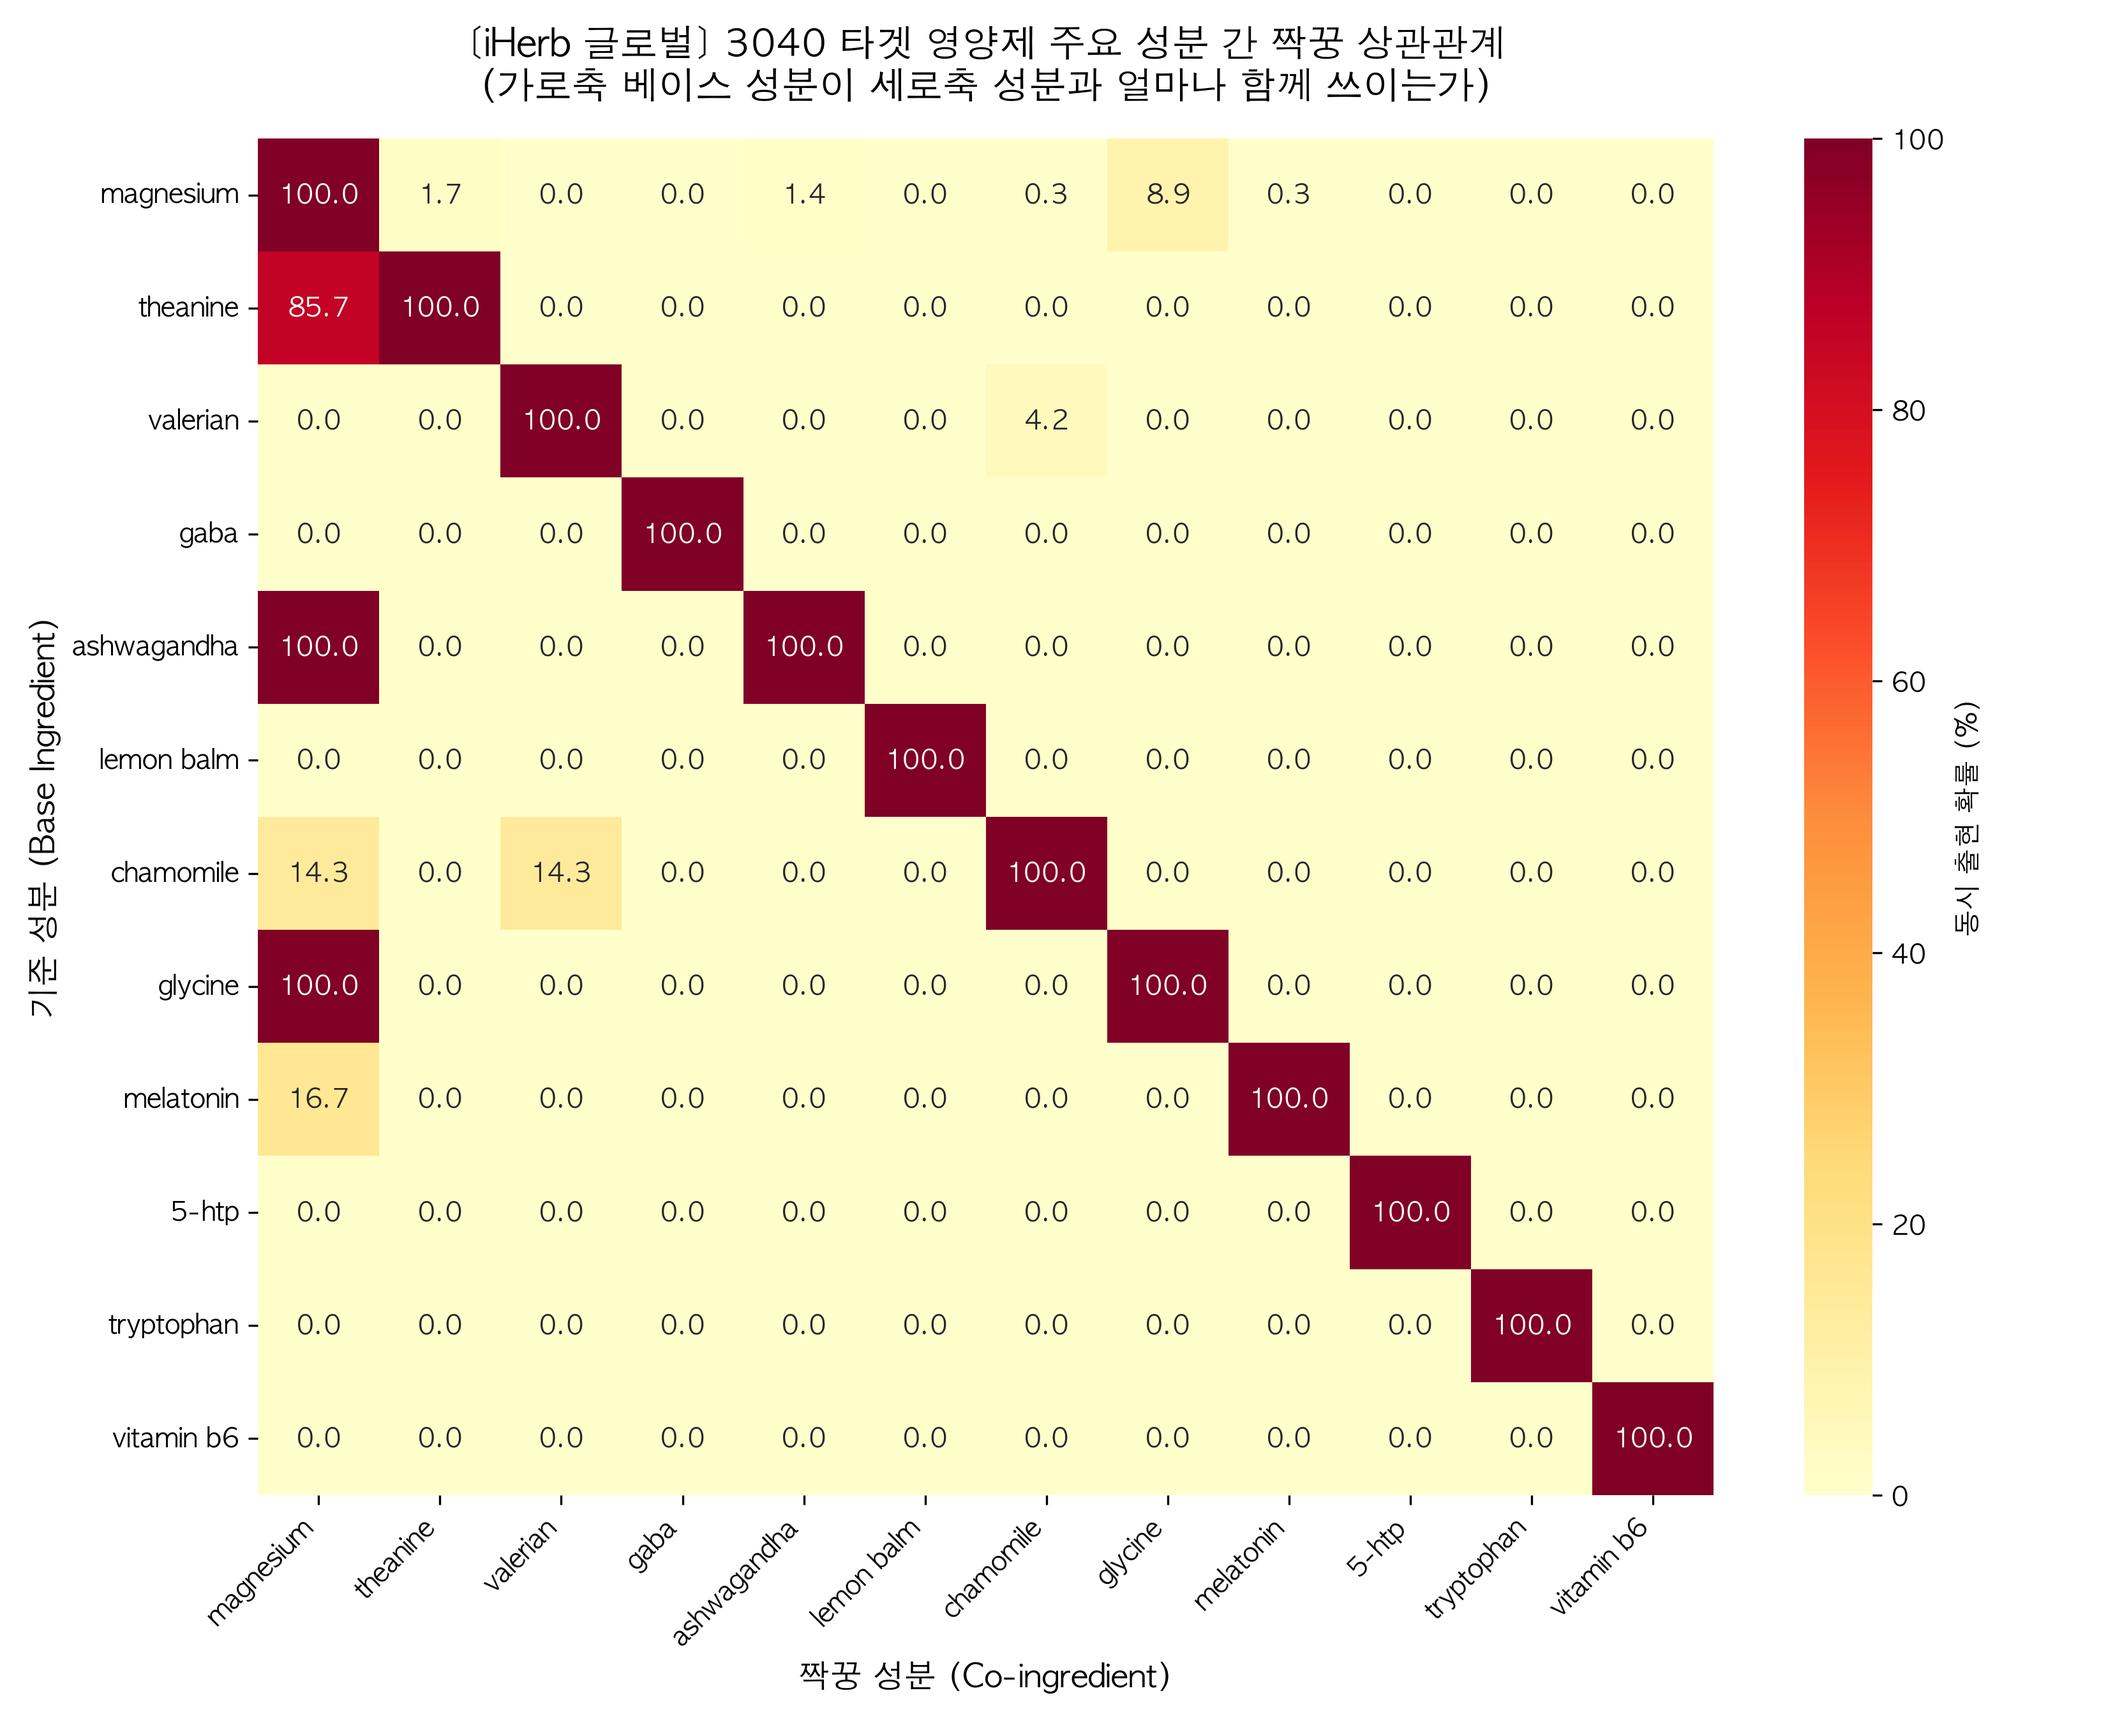
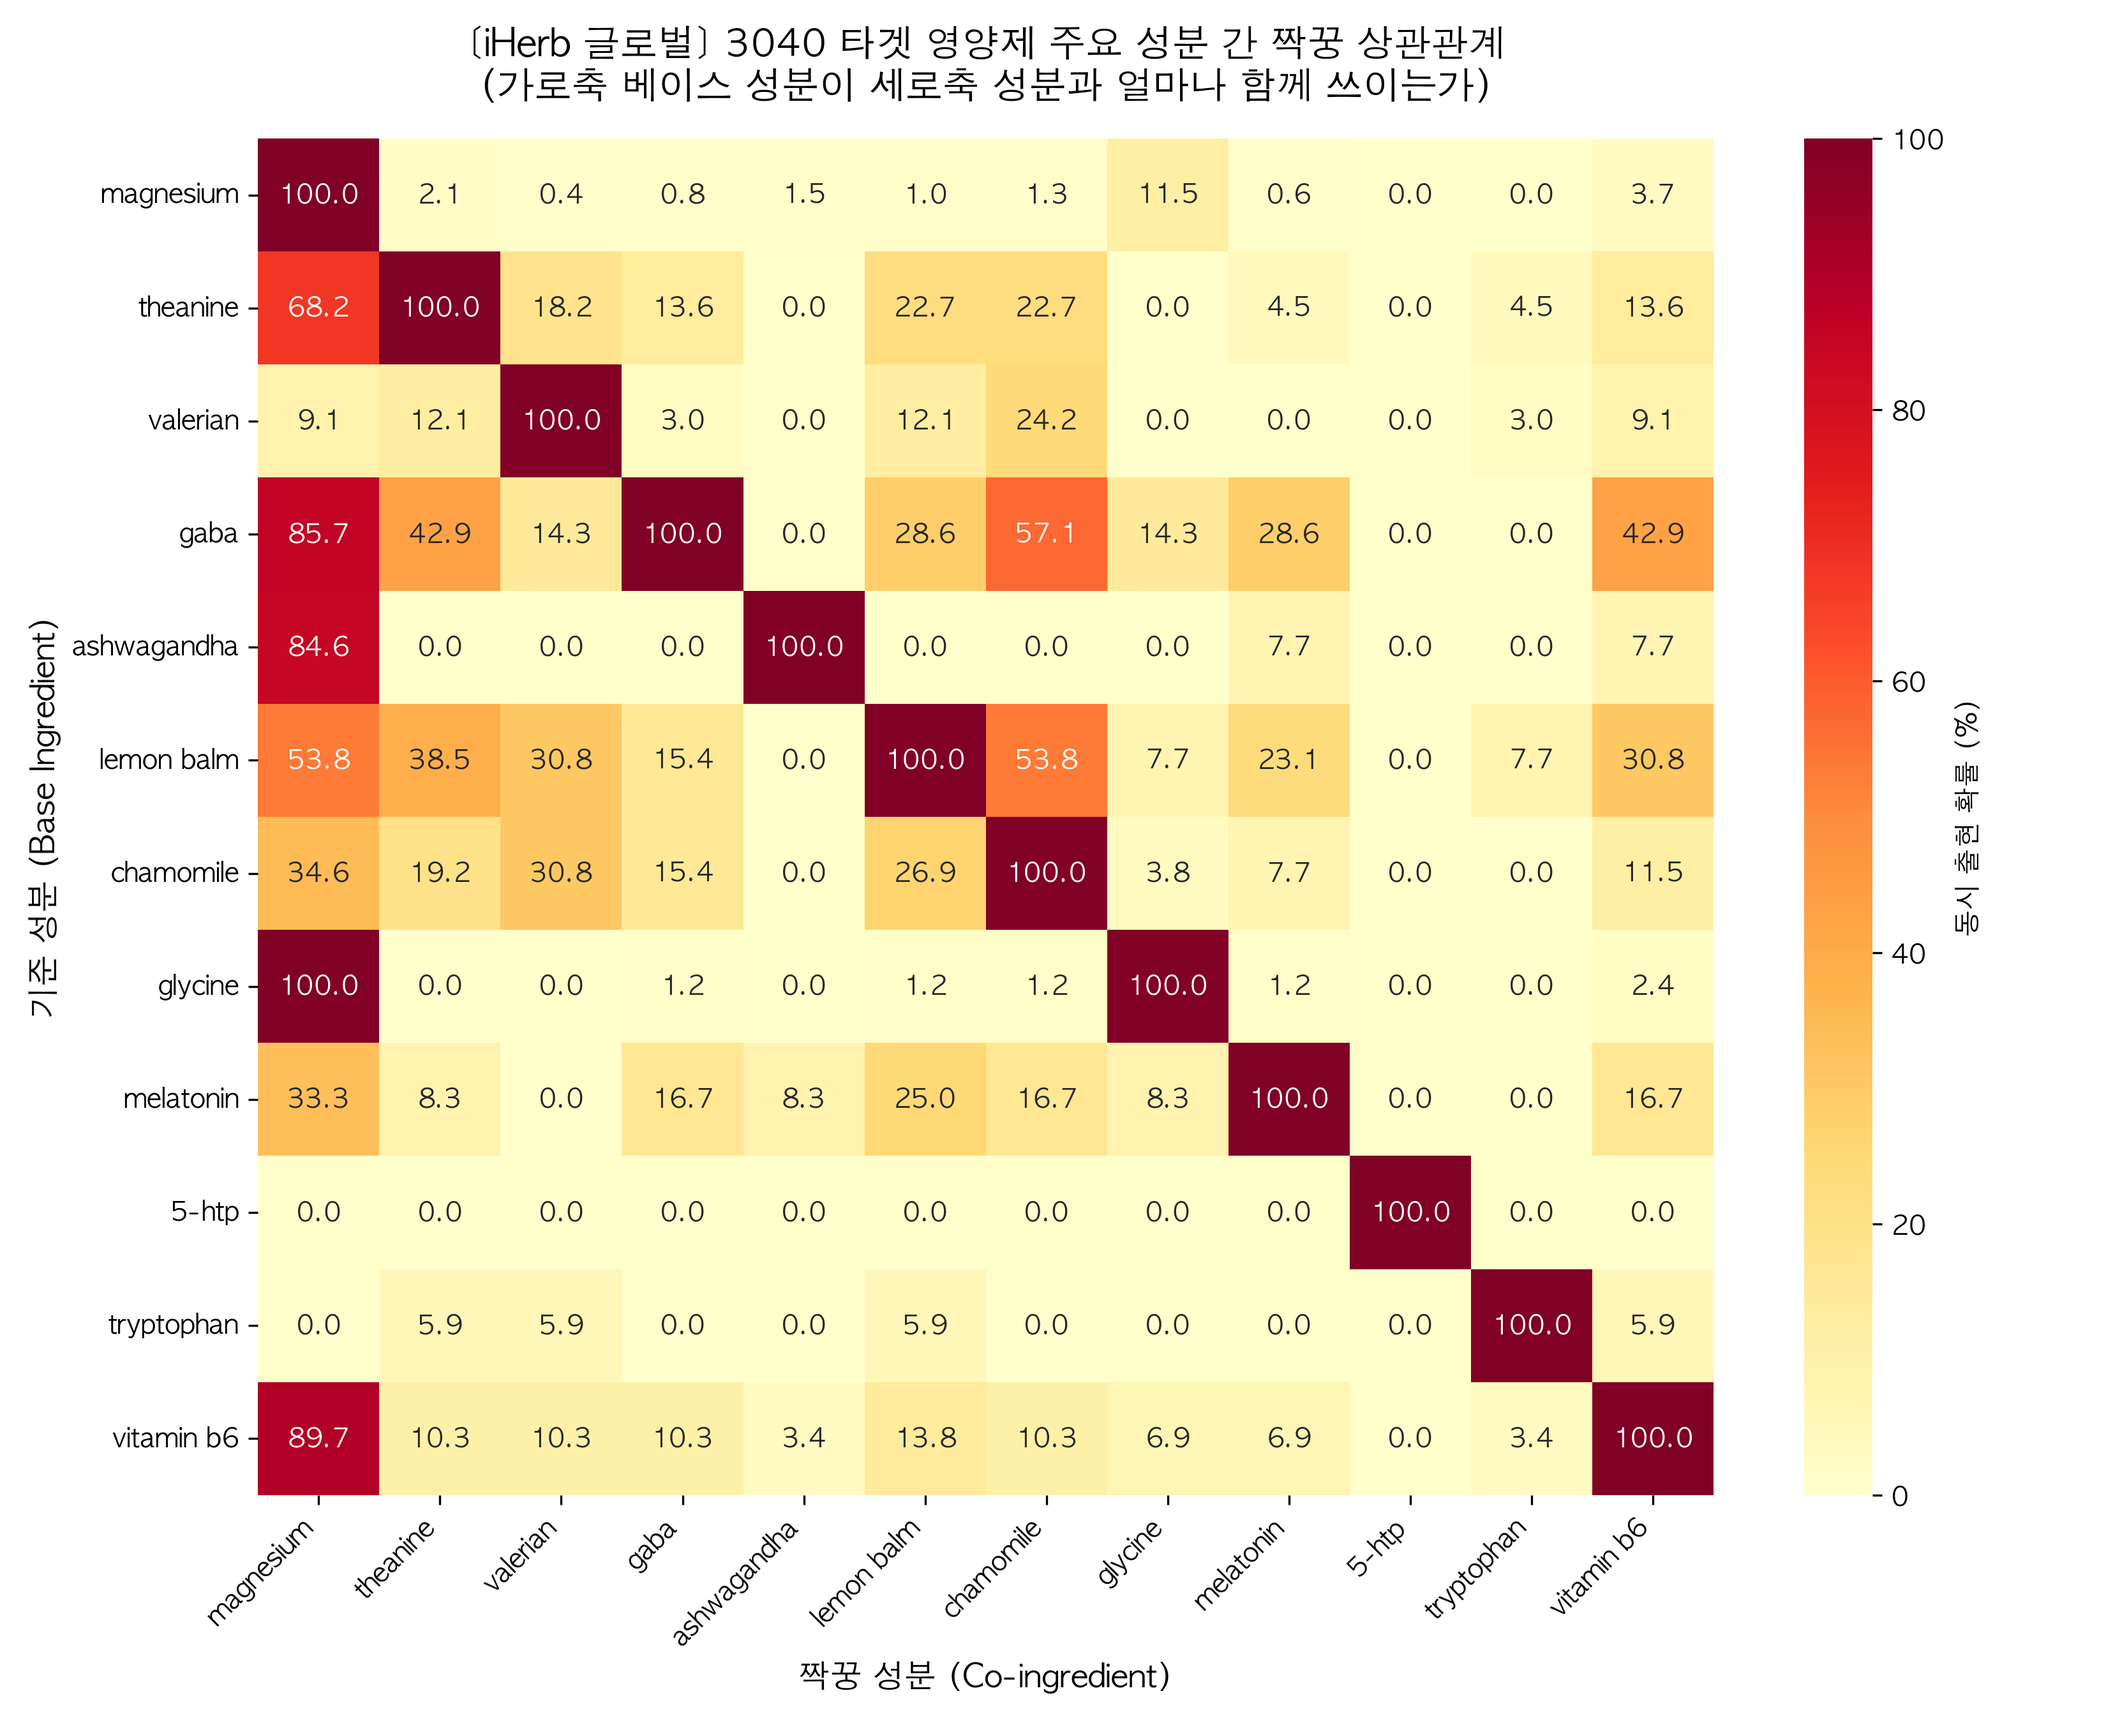
fix: revert README.md and add advanced Naver co-occurrence charts

diff --git a/py/update_readme.py b/py/update_readme.py
@@ -21,7 +21,7 @@ def linkify_output(text):
     linked_text = re.sub(r'data/[a-zA-Z0-9_\-]+\.(png|csv)', replacer, text)
     return linked_text
 
-readme_content = """# 🌙 Sleep Nutrients Project
+readme_header_template = """# 🌙 Sleep Nutrients Project
 
 글로벌(iHerb) 및 국내(Naver) 데이터를 통합 분석하여, 최적의 수면 영양제 복합제 기획과 시장 전략을 수립하는 프로젝트입니다.
 
@@ -34,6 +34,7 @@ readme_content = """# 🌙 Sleep Nutrients Project
 4. [🧮 3040 직장인 타겟 성분 짝꿍 매트릭스](#4--3040-직장인-타겟-성분-짝꿍-매트릭스-pyanalyze_cooccurrence_advancedpy-실행-결과)
 5. [🛡 공공데이터 안전성(부작용) 검증 Plan](#5--공공데이터-안전성부작용-검증-plan-pyvalidate_safetypy-실행-결과)
 6. [📂 리포트 및 소스코드](#--리포트-및-소스코드-collaboration)
+7. [📊 네이버 쇼핑 3040 시장 분석 및 EDA 리포트](#네이버-쇼핑을-활용한-3040세대-수면-영양제-시장-분석-및-eda-리포트)
 
 ---
 
@@ -67,6 +68,7 @@ readme_content = """# 🌙 Sleep Nutrients Project
 {out3}
 ```
 **[차트 결과물]**
+- [통합 상관관계 확률 매트릭스 히트맵](data/chart_cooccurrence_heatmap_combined.png)
 - [iHerb 상관관계 확률 매트릭스 히트맵](data/chart_cooccurrence_heatmap_iherb.png)
 - [Naver 상관관계 확률 매트릭스 히트맵](data/chart_cooccurrence_heatmap_naver.png)
 
@@ -95,6 +97,7 @@ readme_content = """# 🌙 Sleep Nutrients Project
   - [`py/validate_safety.py`](py/validate_safety.py): 공공데이터 및 부작용 맵핑 기반 안전성 검증
   - [`py/visualize_pdp_performance.py`](py/visualize_pdp_performance.py): 성분 분포 시각화 
   - [`py/analyze_reviews_deeper.py`](py/analyze_reviews_deeper.py): 제품군 뱃지 분석
+
 """
 
 if __name__ == "__main__":
@@ -104,6 +107,23 @@ if __name__ == "__main__":
     out3 = linkify_output(run_script("py/analyze_cooccurrence_advanced.py"))
     out4 = linkify_output(run_script("py/validate_safety.py"))
     
+    # 다른 작업자 원본 보존 로직
+    existing_content = ""
+    try:
+        with open("README.md", "r", encoding="utf-8") as f:
+            existing_content = f.read()
+    except:
+        pass
+        
+    keyword = "# 네이버 쇼핑을 활용한 3040세대 수면 영양제 시장 분석 및 EDA 리포트"
+    preserved_bottom = ""
+    if keyword in existing_content:
+        preserved_bottom = keyword + existing_content.split(keyword)[1]
+        
+    final_content = readme_header_template.format(
+        out1=out1, out2=out2, out_cross=out_cross, out3=out3, out4=out4
+    ) + "\n\n" + preserved_bottom
+    
     with open("README.md", "w", encoding="utf-8") as f:
-        f.write(readme_content.format(out1=out1, out2=out2, out_cross=out_cross, out3=out3, out4=out4))
-    print("README.md updated with TOC, separators, and file links!")
+        f.write(final_content)
+    print("README.md updated safely with TOC, preserving other worker's content!")

diff --git a/py/analyze_cooccurrence_advanced.py b/py/analyze_cooccurrence_advanced.py
@@ -26,31 +26,33 @@ TARGET_INGREDIENTS = [
     'melatonin', '5-htp', 'tryptophan', 'vitamin b6'
 ]
 
-def map_ingredient_name(raw_name):
-    """원시 성분명(텍스트)에서 핵심 타겟 성분 키워드 추출 (단순화된 정규화)"""
-    if not isinstance(raw_name, str): return None
-    raw_name = raw_name.lower().strip()
-    
-    for target in TARGET_TARGET_INGREDIENTS: # Typo -> TARGET_INGREDIENTS
-        pass # Will fix in next iteration if needed, fixing here directly
-    
-    for target in TARGET_INGREDIENTS:
-        if target in raw_name:
-            if target == 'magnesium glycinate': return 'magnesium' # 대표성분 분류
-            if target == '5-htp': return '5-htp'
-            if target == 'vitamin b6': return 'vitamin b6'
-            return target
-    return None
+INGREDIENT_MAP_ADV = {
+    'magnesium': ['magnesium', '마그네슘'],
+    'theanine': ['theanine', '테아닌', 'l-theanine'],
+    'valerian': ['valerian', '발레리안'],
+    'gaba': ['gaba', '가바', 'gamma aminobutyric acid'],
+    'ashwagandha': ['ashwagandha', '아슈와간다', '아쉬아간다'],
+    'lemon balm': ['lemon balm', '레몬밤'],
+    'chamomile': ['chamomile', '카모마일', '캐모마일'],
+    'glycine': ['glycine', '글리신'],
+    'melatonin': ['melatonin', '멜라토닌'],
+    '5-htp': ['5-htp', '5-히드록시트립토판'],
+    'tryptophan': ['tryptophan', '트립토판', 'l-tryptophan'],
+    'vitamin b6': ['vitamin b6', '비타민 b6', '비타민b6']
+}
 
 def extract_ingredients(text_series):
-    """텍스트 군에서 성분 리스트 추출"""
+    """텍스트 군에서 성분 리스트 추출 (한/영 통합 매핑)"""
     mapped_list = []
     for text in text_series.dropna():
-        # 간단하게 텍스트 내에서 주요 키워드가 발견되면 해당 제품의 성분으로 간주
+        text_lower = str(text).lower()
         product_ings = set()
-        for target in TARGET_INGREDIENTS:
-            if target in str(text).lower():
-                product_ings.add(target)
+        for target_ing, aliases in INGREDIENT_MAP_ADV.items():
+            for alias in aliases:
+                # 단순 포함 여부 검사
+                if alias in text_lower:
+                    product_ings.add(target_ing)
+                    break
         if product_ings:
             mapped_list.append(list(product_ings))
     return mapped_list
@@ -143,6 +145,9 @@ def run_cooccurrence_matrix_analysis():
         
     print(f"\n✅ iHerb 분석 유효제품: {len(iherb_lists)}건 / Naver 분석 유효제품: {len(naver_lists)}건 (중복포함)\n")
 
+    combined_lists = iherb_lists + naver_lists
+    compute_cooccurrence(combined_lists, "통합 글로벌&국내(iHerb+Naver)", "combined")
+    print("-" * 60)
     compute_cooccurrence(iherb_lists, "iHerb 글로벌", "iherb")
     print("-" * 60)
     compute_cooccurrence(naver_lists, "Naver 국내쇼핑", "naver")
